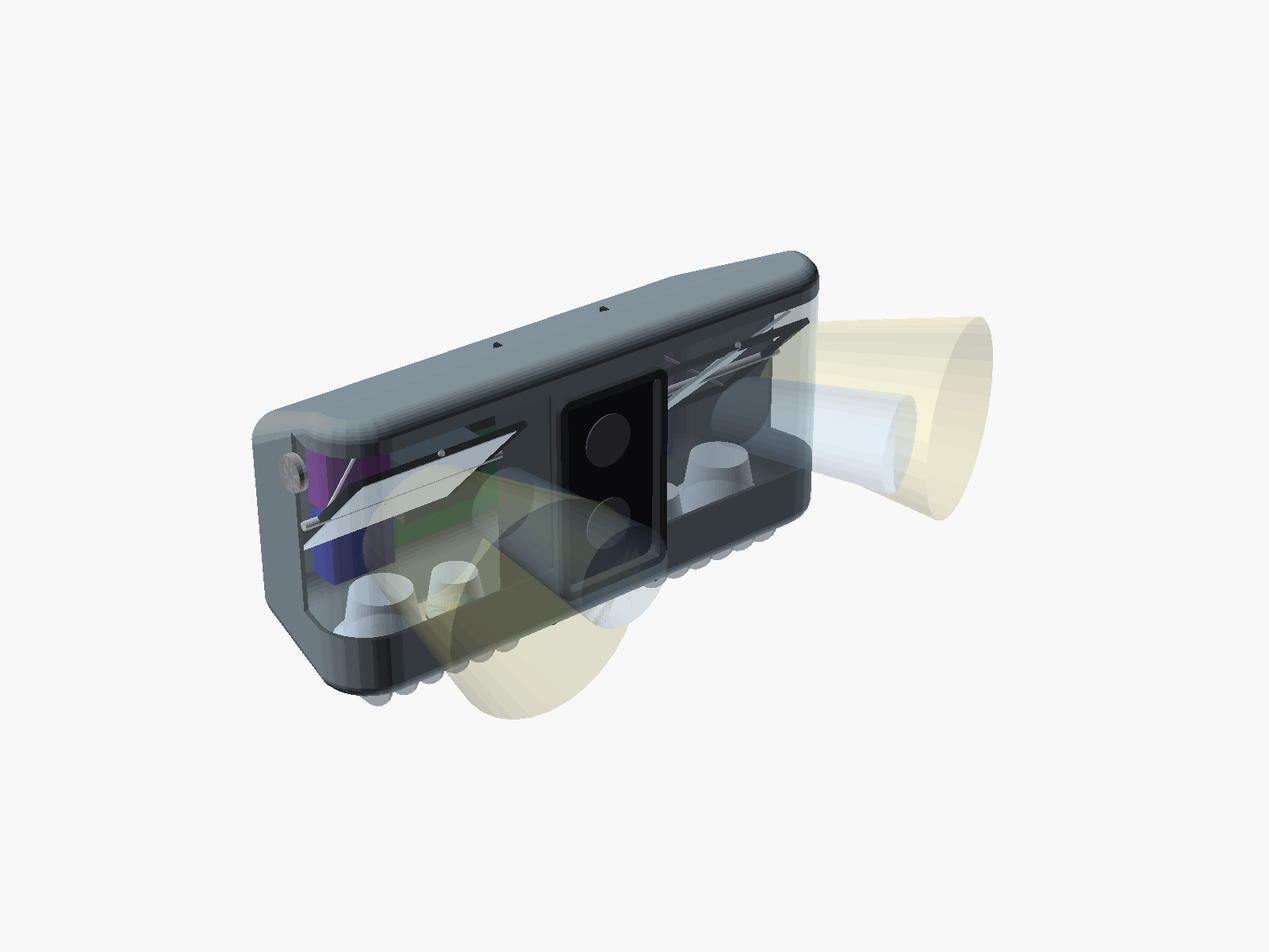
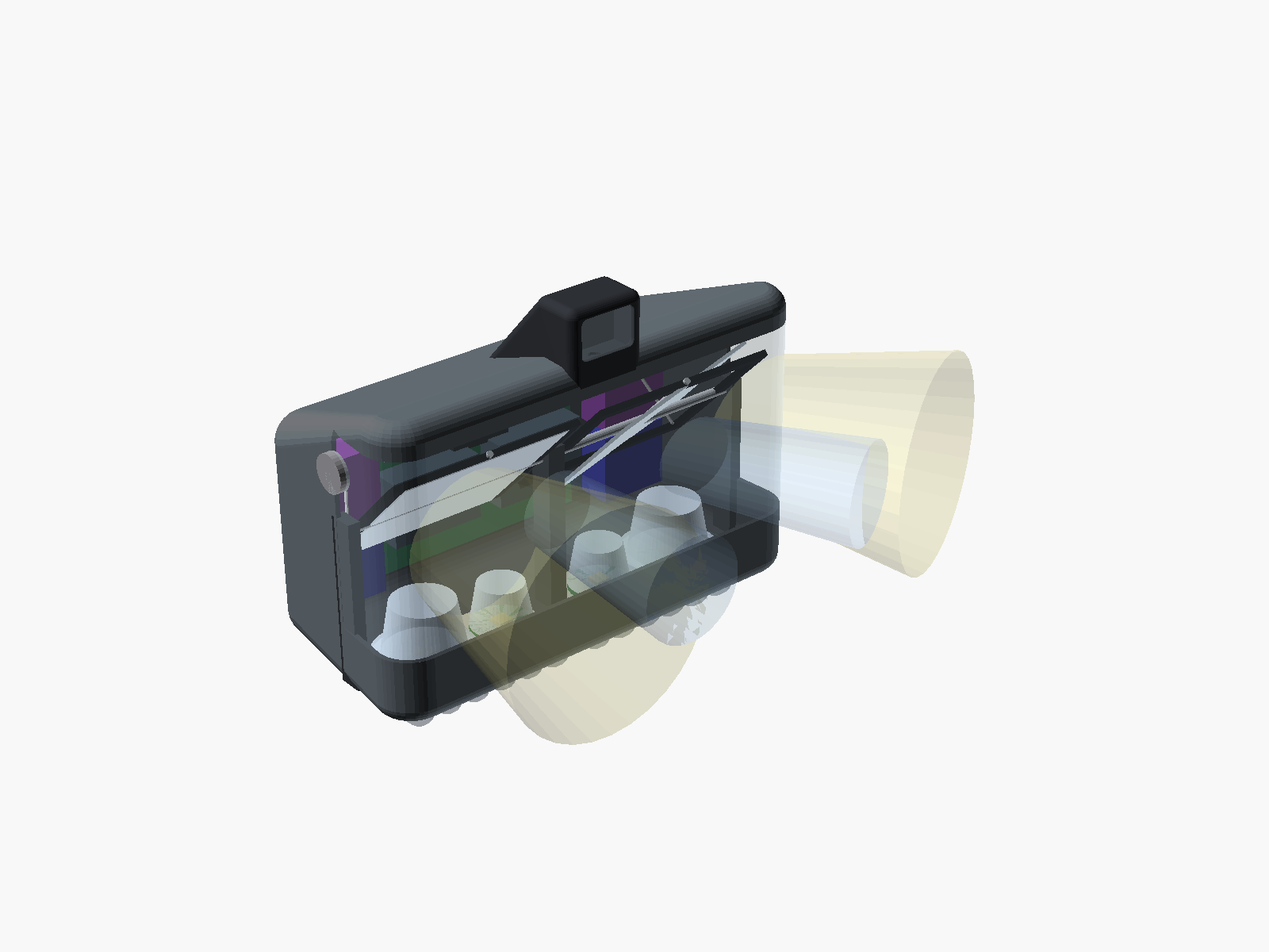
v4 render review: 151 mm body, TFS20-L lidar in a roof pod, exploded view
Owner review of the v4 renders (2026-11-21): narrow the body to about
150 mm, fins acceptable, sides stay fully clear, add an exploded view,
swap the TF02-Pro for the TFS20-L in a roof pod.

- Model: centre post carries both inner mirror shafts, bearings in the
  gimbal frames, inward yaw limited to 2.5 deg, servos moved outward,
  one-piece clear wrap, smaller wrap radius and taper, 1 mm more front
  clearance. Exploded view render added.
- C-PKG-18 now checks parts against the inner skin; this caught a mirror
  end touching the front wall at full outward swing (also in the 200 mm
  model), now fixed. C-PKG-14/16 retired, C-PKG-15 redefined.
- Result: 151 x 72 x 95 mm body, 341 g with lidar (C-MASS-01 pass).
- BOM: TFS20-L + window gasket, ~$401 with lidar; bench kit lists v4
  quantities and two BuckBlocks.
- Docs: design review section, sensor section for the TFS20-L, firmware
  spec note, new tests B-THM-03 and B-LID-02, site and README figures.

Changed region(s): [[0.1875, 0.2467, 0.7812, 0.8017]]

diff --git a/docs/index.html b/docs/index.html
@@ -185,7 +185,7 @@ footer p { margin: 0 0 8px; max-width: 80ch; }
     <div class="status">Concept design: nothing built or tested yet. Every figure is an estimate.</div>
   </div>
   <figure class="render" style="margin:0">
-    <img src="img/v4-three-quarter.png" alt="Packaging model of the head: a rounded light bar with a mirror module each side, the lidar in the middle and clear wraparound sides" width="1600" height="1200">
+    <img src="img/v4-three-quarter.png" alt="Packaging model of the head: a rounded light bar with two mirror modules side by side, a small lidar pod on the roof and one clear piece wrapping the front and sides" width="1600" height="1200">
     <figcaption>Packaging model, layout v4 · OpenSCAD</figcaption>
   </figure>
 </header>
@@ -287,15 +287,16 @@ footer p { margin: 0 0 8px; max-width: 80ch; }
 <section id="design">
   <div class="wrap">
     <div class="eyebrow">Design · layout v4</div>
-    <h2>A rounded light bar, 200 mm wide</h2>
-    <p class="intro">The packaging model checks that everything fits, sweeps and stays under the weight limit before any part is bought. Layout v4 was chosen on 2026-11-21 over a narrower single-mirror head (v3) with fixed cornering lights.</p>
+    <h2>A rounded light bar, about 150 mm wide</h2>
+    <p class="intro">The packaging model checks that everything fits, sweeps and stays under the weight limit before any part is bought. Layout v4 was chosen on 2026-11-21 over a single-mirror head (v3) with fixed cornering lights. After reviewing the renders the same day, a much smaller lidar moved to a pod on the roof, so the two modules sit side by side and the body narrowed from 200 to about 151 mm.</p>
     <div class="gallery">
       <figure><div class="shot"><img src="img/v4-turning.png" alt="Model in a left turn: the left beam swung outward, the right beam straight ahead" loading="lazy" width="1600" height="1200"></div><figcaption><b>Left turn.</b> The left beam swings 25° out through the clear side; the right one stays straight.</figcaption></figure>
-      <figure><div class="shot"><img src="img/v4-top.png" alt="Top view in a left turn: left beam swung out, right beam straight" loading="lazy" width="1600" height="1200"></div><figcaption><b>From above, left turn.</b> Two modules with the lidar bay between them and the servos in the back slot.</figcaption></figure>
+      <figure><div class="shot"><img src="img/v4-top.png" alt="Top view in a left turn: left beam swung out, right beam straight" loading="lazy" width="1600" height="1200"></div><figcaption><b>From above, left turn.</b> Two modules side by side, the lidar pod on the roof and the servos in the back slot.</figcaption></figure>
       <figure><div class="shot"><img src="img/v4-cutaway.png" alt="Cut-away side view showing LED, optic, mirror and heatsink" loading="lazy" width="1600" height="1200"></div><figcaption><b>Cut-away.</b> LED facing up, optic, 45° mirror, heatsink floor.</figcaption></figure>
       <figure><div class="shot"><img src="img/v4-under.png" alt="Underside with two finned heatsinks" loading="lazy" width="1600" height="1200"></div><figcaption><b>Underneath.</b> Two aluminium heatsinks, fins fore-aft in the airflow.</figcaption></figure>
       <figure><div class="shot"><img src="img/v4-on-wheel.png" alt="The head mounted on a generic wheel for scale" loading="lazy" width="1600" height="1200"></div><figcaption><b>On a wheel.</b> Generic 16-inch shell, for scale.</figcaption></figure>
-      <figure><div class="shot"><img src="img/v4-front.png" alt="Front view of the head" loading="lazy" width="1600" height="1200"></div><figcaption><b>Front.</b> Low beam outside, spot inside, behind one curved clear piece per side.</figcaption></figure>
+      <figure><div class="shot"><img src="img/v4-front.png" alt="Front view of the head" loading="lazy" width="1600" height="1200"></div><figcaption><b>Front.</b> Low beam outside, spot inside, behind one curved clear piece; the lidar looks out of its roof pod.</figcaption></figure>
+      <figure><div class="shot"><img src="img/v4-exploded.png" alt="Exploded view: shell lifted off, clear piece and lidar forward, servos and board back, optics and heatsinks below" loading="lazy" width="1600" height="1200"></div><figcaption><b>Exploded.</b> Shell, clear piece, lidar, mirrors, servos and board, optics, heatsinks.</figcaption></figure>
     </div>
   </div>
 </section>
@@ -330,7 +331,7 @@ footer p { margin: 0 0 8px; max-width: 80ch; }
             <tr><td>Pitch correction</td><td class="num">~0.05 s</td></tr>
             <tr><td>Hill follow</td><td class="num">&lt; 1 s</td></tr>
             <tr><td>Turn swing</td><td class="num">up to 25°</td></tr>
-            <tr><td>Size</td><td class="num">~200 × 70 × 111 mm</td></tr>
+            <tr><td>Size</td><td class="num">~151 × 72 × 112 mm</td></tr>
             <tr><td>Sealing target</td><td class="num">IP65</td></tr>
           </tbody>
         </table>
@@ -340,13 +341,13 @@ footer p { margin: 0 0 8px; max-width: 80ch; }
       <div class="panel budget">
         <h3>Limits, with the lidar fitted</h3>
         <div class="meter">
-          <div class="row"><span>Head weight</span><span>~399 / 400 g</span></div>
-          <div class="bar" role="img" aria-label="399 of 400 grams"><i style="width:99.75%"></i><b></b></div>
+          <div class="row"><span>Head weight</span><span>~341 / 400 g</span></div>
+          <div class="bar" role="img" aria-label="341 of 400 grams"><i style="width:85.25%"></i><b></b></div>
           <small>Printed parts measured from the model; bought parts from datasheets. Only 1 g of margin: the custom PCB should win some back.</small>
         </div>
         <div class="meter">
-          <div class="row"><span>Material cost per unit</span><span>~$440 / $450</span></div>
-          <div class="bar" role="img" aria-label="440 of 450 dollars"><i style="width:97.8%"></i><b></b></div>
+          <div class="row"><span>Material cost per unit</span><span>~$401 / $450</span></div>
+          <div class="bar" role="img" aria-label="401 of 450 dollars"><i style="width:89.1%"></i><b></b></div>
           <small>Excludes the power bank, tools and leftover packs. About $342 without the lidar.</small>
         </div>
       </div>
@@ -367,7 +368,7 @@ footer p { margin: 0 0 8px; max-width: 80ch; }
     <div class="parts">
       <div class="part"><div class="role">Brain</div><div class="name">Seeed XIAO ESP32-S3</div><p>Control loop, BLE remote, Wi-Fi calibration page.</p></div>
       <div class="part"><div class="role">Sensor</div><div class="name">LSM6DSO32 IMU</div><p>6-axis, ±32 g, so crash detection doesn't saturate.</p></div>
-      <div class="part"><div class="role">Look-ahead</div><div class="name">Benewake TF02-Pro lidar</div><p>Measures the road slope ahead. Optional: everything works without it.</p></div>
+      <div class="part"><div class="role">Look-ahead</div><div class="name">Benewake TFS20-L lidar</div><p>A 1.35 g sensor in a roof pod that measures the road slope ahead. Optional: everything works without it.</p></div>
       <div class="part"><div class="role">Light</div><div class="name">4 × Cree XP-L HI</div><p>Two behind FILIPPA cutoff optics, two behind Carclo spots.</p></div>
       <div class="part"><div class="role">Drivers</div><div class="name">2 × BuckBlock 2.1 A</div><p>Run at full current if the MCU dies: the light stays on.</p></div>
       <div class="part"><div class="role">Steering</div><div class="name">4 × 5 g servos, 2 mirrors</div><p>Front-surface glass on printed two-axis gimbals.</p></div>
@@ -433,7 +434,7 @@ footer p { margin: 0 0 8px; max-width: 80ch; }
 
 <footer>
   <div class="wrap">
-    <p><b style="color:var(--fg);font-weight:500">A concept design.</b> Nothing here has been built or tested yet, so it isn't ready to build; ideas and doubts are welcome as <a href="https://github.com/nijaba/euc-stabilized-headlight/issues">GitHub issues</a>. Ride with a backup light until it's proven, and check your country's lighting rules: aim the low beam so it doesn't dazzle other road users. The optional TF02-Pro is a Class 1 (eye-safe) laser device.</p>
+    <p><b style="color:var(--fg);font-weight:500">A concept design.</b> Nothing here has been built or tested yet, so it isn't ready to build; ideas and doubts are welcome as <a href="https://github.com/nijaba/euc-stabilized-headlight/issues">GitHub issues</a>. Ride with a backup light until it's proven, and check your country's lighting rules: aim the low beam so it doesn't dazzle other road users. The optional TFS20-L lidar is a Class 1 (eye-safe) laser device.</p>
     <p>Hardware and firmware under GPL-3.0. <a href="https://github.com/nijaba/euc-stabilized-headlight">github.com/nijaba/euc-stabilized-headlight</a></p>
   </div>
 </footer>

diff --git a/cad/weight.py b/cad/weight.py
@@ -69,8 +69,8 @@ def budget(g, shell_mm3, hood_mm3):
         "2x cornering driver (700 mA buck)": cornering * 2 * 2,
     }
     if g["lidar"]:
-        parts["TF02-Pro lidar"] = 50
-        parts["Lidar gasket + screws"] = 2
+        parts["Lidar (v3 TF02-Pro, v4 TFS20-L)"] = g.get("lidar_g", 50)
+        parts["Lidar window, gasket + screws"] = g.get("lidar_mount_g", 2)
     return parts
 
 

diff --git a/hardware/BOM.md b/hardware/BOM.md
@@ -1,10 +1,11 @@
 # EUC Stabilized Headlight – Bill of Materials (v4)
 
-Version: layout v4 (adopted 2026-11-21): XIAO ESP32-S3, 3D-printed ASA housing with two aluminium heatsinks and thermoformed polycarbonate wraparound sides, external USB-C PD power bank, two mirrors on 2-axis gimbals driven by four servos, optional road-slope lidar.  
+Version: layout v4 (adopted 2026-11-21): XIAO ESP32-S3, 3D-printed ASA housing with two aluminium heatsinks and one thermoformed polycarbonate piece wrapping the front and both sides, external USB-C PD power bank, two mirrors on 2-axis gimbals driven by four servos side by side, optional road-slope lidar (TFS20-L in a roof pod).  
 Prices: approximate USD street prices, Nov 2026. **Check the live pages before ordering.** Links marked *search* go to a marketplace search because those parts are commodity items with many equivalent sellers.
 
 ## Changes since the last design
 
+- **150 mm body and a smaller lidar (owner, 2026-11-21):** the Benewake TFS20-L (21 × 15 × 7.9 mm, 1.35 g, 3.3 V I²C) replaces the TF02-Pro and moves to a small pod on the roof, so the two mirror modules sit side by side and the body narrows to about 151 mm. One clear piece now wraps the whole front. About $39 less with the lidar.
 - **Layout v4 (2026-11-21):** two mirrors on 2-axis gimbals and four servos replace the single mirror and servo. The cornering lights, their drivers and optics, the toe-out wedges and the brow are gone. The flat window becomes two thermoformed polycarbonate wraparound pieces. Net about +$26 per unit.
 - **LED driver:** the Mean Well LDD-1500H is discontinued, so it's replaced by the **LEDdynamics BuckBlock A009-D-V-2100**. It's dimmable and rated 2.1 A. Firmware caps it at about 1.5 A in normal mode and allows 2.1 A in a time-limited boost mode.
 - **Dimming flicker:** BuckBlock PWM is specified at 200 Hz, which would flicker visibly on a moving wheel. Instead, the 2N3904 interface runs at about 20 kHz with a 10 µF cap on DIM, which turns it into smooth analog dimming. Verify this on the bench.
@@ -65,7 +66,7 @@ Prices: approximate USD street prices, Nov 2026. **Check the live pages before o
 | Item | Part / spec | Qty | Unit $ | Ext $ | Source | Notes |
 |---|---|---|---|---|---|---|
 | Filament | ASA 1 kg (Polymaker / Prusament) – ~150 g used | 1 | 25.00 | 25.00 | [search](https://www.amazon.com/s?k=ASA+filament+1kg) | Black interior parts can be same spool |
-| Clear sides | Polycarbonate sheet 1–1.5 mm, ~300×200 mm, thermoformed into 2 wraparound front-and-side pieces | 1 | 12.00 | 12.00 | [search](https://www.amazon.com/s?k=polycarbonate+sheet+1.5mm) | Dry it before forming (about 120 °C for a few hours) or it bubbles. Forms at ~170–190 °C |
+| Clear sides | Polycarbonate sheet 1–1.5 mm, ~300×200 mm, thermoformed into one piece across the front and round both sides (~200 mm developed length), plus the small lidar window | 1 | 12.00 | 12.00 | [search](https://www.amazon.com/s?k=polycarbonate+sheet+1.5mm) | Dry it before forming (about 120 °C for a few hours) or it bubbles. Forms at ~170–190 °C |
 | Forming buck | Plaster of Paris or casting resin, for the mould (ASA softens below the forming temperature) | 1 | 8.00 | 8.00 | [search](https://www.amazon.com/s?k=plaster+of+paris) | Or MDF or aluminium; or coat an ASA buck with high-temperature epoxy |
 | Anti-fog | Rain-X Anti-Fog (inside of window) | 1 | 6.00 | 6.00 | [search](https://www.amazon.com/s?k=Rain-X+anti+fog) |  |
 | O-ring | Silicone O-ring cord, 2 mm, 2 m | 1 | 8.00 | 8.00 | [search](https://www.amazon.com/s?k=silicone+o-ring+cord+2mm) | Glue the ends with CA glue |
@@ -115,9 +116,9 @@ Prices: approximate USD street prices, Nov 2026. **Check the live pages before o
 
 | Item | Part / spec | Qty | Unit $ | Ext $ | Source | Notes |
 |---|---|---|---|---|---|---|
-| Lidar | Benewake TF02-Pro, IP65, 13.5 m @10% reflectivity, UART/I²C, 5–12 V | 1 | 92.49 | 92.49 | [link](https://www.racedayquads.com/products/benewake-tf02-pro-ip65-lidar) | Also Lumenier / GetFPV (~$100). Runs on the shared I²C bus (one-time UART command to switch modes) |
-| Lidar gasket + screws | EPDM foam gasket strip 3 mm + M2.5 stainless screws | 1 | 6.00 | 6.00 | [search](https://www.amazon.com/s?k=EPDM+foam+gasket+tape+3mm) | Seals the lidar face in its own front cut-out |
-| **Subtotal** | | | | **98.49** | | |
+| Lidar | Benewake TFS20-L, 21 × 15 × 7.9 mm, 1.35 g, 0.2–9 m @10% reflectivity in 100 klux sun (12 m in the dark), I²C/UART, 3.3 V | 1 | 55.00 | 55.00 | [link](https://en.benewake.com/TFS20L/index.html) | Owner's choice, 2026-11-21 (replaces the TF02-Pro). Price estimated from an AU$85 listing; also sold by GetFPV, DFRobot (SEN0672), Mouser. Not IP-rated: it sits behind its own window in the sealed roof pod. 3.3 V only, on the shared I²C bus |
+| Lidar window gasket + screws | EPDM foam gasket strip 3 mm + M2 stainless screws (window cut from the clear-side sheet) | 1 | 4.00 | 4.00 | [search](https://www.amazon.com/s?k=EPDM+foam+gasket+tape+3mm) | Seals the pod window; a divider between the lenses stops the window reflecting the laser back |
+| **Subtotal** | | | | **59.00** | | |
 
 ### Cheaper remote alternative (replaces section G)
 
@@ -127,7 +128,7 @@ Prices: approximate USD street prices, Nov 2026. **Check the live pages before o
 
 ## Bench kit (order first, build-plan phase 2)
 
-For firmware and bench testing before the protoboard or any PCB. Most of it is the real parts from the sections above and goes into the final build. Quantities cover both v3 and v4 (four servos). It is a one-off purchase list, so it is not in `BOM.csv` or the per-unit cost summary.
+For firmware and bench testing before the protoboard or any PCB. Most of it is the real parts from the sections above and goes into the final build. Quantities are for v4 (four servos, two LED channels). It is a one-off purchase list, so it is not in `BOM.csv` or the per-unit cost summary.
 
 | Item | Part / spec | Qty | Unit $ | Ext $ | Source | Reused in the build? |
 |---|---|---|---|---|---|---|
@@ -138,25 +139,26 @@ For firmware and bench testing before the protoboard or any PCB. Most of it is t
 | Mirror test pieces | Front-surface mirror offcuts, MR63ZZ bearings, 3 mm rod, pushrod kit (section C) | 1 | 31.00 | 31.00 | see section C | Bearings, rod and kit yes |
 | Laser module | 5 V 650 nm dot laser module | 1 | 5.00 | 5.00 | [search](https://www.amazon.com/s?k=5V+650nm+laser+dot+module) | No (test tool) |
 | Breadboard + jumpers | Full-size breadboard and jumper wire kit | 1 | 10.00 | 10.00 | [search](https://www.amazon.com/s?k=breadboard+jumper+wire+kit) | No (test tool) |
-| Optics bench | 1 BuckBlock, 2 XP-L HI on stars, 1 FILIPPA-STVZO, 1 Carclo 10003 + holder, the heatsink (sections B, C) | 1 | 50.00 | 50.00 | see sections B, C | Yes |
+| Optics bench | 2 BuckBlocks (phase 3 tests both channels), 2 XP-L HI on stars, 1 FILIPPA-STVZO, 1 Carclo 10003 + holder, the heatsink (sections B, C) | 1 | 71.00 | 71.00 | see sections B, C | Yes |
+| Lidar | Benewake TFS20-L (section H), to test its range through a window early | 1 | 55.00 | 55.00 | [link](https://en.benewake.com/TFS20L/index.html) | Yes |
 | Power | PD trigger cable 15 V, Pololu 5 V regulator, passives (section B, F); RXEF300 as well as RXEF250 to compare | 1 | 45.00 | 45.00 | see sections B, F | Yes |
 | USB-C power meter | Inline USB-C voltage/current meter | 1 | 20.00 | 20.00 | [search](https://www.amazon.com/s?k=usb+c+power+meter) | No (test tool) |
 | Lux meter | Basic digital lux meter | 1 | 20.00 | 20.00 | [search](https://www.amazon.com/s?k=digital+lux+meter) | No (test tool) |
-| **Total** | | | | **263.43** | | about $200 of it goes into the build |
+| **Total** | | | | **339.43** | | about $260 of it goes into the build |
 
 ## 3D-printed parts (no purchase)
 
 | Part | Notes |
 |---|---|
 | Body | ASA, 5 perimeters, open top, O-ring groove, vent + button + gland bosses |
-| Clear-side clamps | ASA, clamp each wraparound piece with its gasket, and frame the lidar bay |
+| Clear-side clamps | ASA, clamp the wraparound piece with its gasket; centre post and two outer posts carry the pitch shafts |
 | Gimbals (×2) | ASA outer frame pitching on MR63 bearings, mirror cradle yawing inside it on pins; each balanced about both axes |
 | Servo brackets + lever arms (×2) | ASA, two servos per side stacked in the back slot, each linkage about 4:1 |
 | Optic plates (×2) | ASA, one per module, locate a Carclo holder and a FILIPPA optic on each heatsink. Slots key the FILIPPA ribs toward the front; spacers set the FILIPPA focus height |
 | Electronics tray | ASA, holds the protoboard, BuckBlocks, Pololu |
 | Mount boss | ASA, on the back of the body, holds the 1/4"-20 insert |
 | Remote case | ASA or TPU, 2 buttons + strap slots |
-| Lidar bay (if section H) | ASA, in the body between the two modules, lidar on its side, aimed ~3–5° below the beam axis; gasketed front opening |
+| Lidar pod (if section H) | ASA hump on the front of the roof (~26 mm wide, 46 mm long faired, 18 mm tall), TFS20-L aimed ~3–5° below the beam axis behind a gasketed window; printed as part of the body |
 
 ## Cost summary
 
@@ -164,11 +166,11 @@ For firmware and bench testing before the protoboard or any PCB. Most of it is t
 |---|---|
 | Core build, cash outlay (sections A–G, excluding the 2 optional items) | **528** |
 | Optional extras (XTC-3D coating, magnetic breakaway) | +35 |
-| Road-slope lidar (section H) | +98 |
+| Road-slope lidar (section H) | +59 |
 | Subtract if you already own a power bank, filament, resistor kit, wire, paste | −100 |
 | Packs and spools left over after one unit (inserts, screws, O-ring cord, bearings, mounts, sheet, plaster…) | ≈ 136 |
 | **Material actually used per unit, without lidar or power bank** | **≈ 342** |
-| **With the lidar (the $450 limit applies here)** | **≈ 440** |
+| **With the lidar (the $450 limit applies here)** | **≈ 401** |
 
 Tools not included: 3D printer, soldering iron with a heat-set insert tip, multimeter, glass cutter, drill and M3 tap.
 

diff --git a/docs/test-plan.md b/docs/test-plan.md
@@ -161,12 +161,12 @@ Each check's message in `cad/headlight.scad` or `cad/weight.py` starts with its 
 | C-PKG-11 | The sloping roof leaves the electronics board at least 45 mm tall | Board height ≥ 45 mm | Pass (v3), 2026-11-21 |
 | C-PKG-12 | The servo fits inside the rounded, tapered tail | Servo inside the tail's inner wall | Pass (v3), 2026-11-21 |
 | C-PKG-13 | The electronics board fits the flat part of the tail | Board width ≥ 55 mm | Pass (v3), 2026-11-21 |
-| C-PKG-14 | v4 only: the lidar on its side fits inside the body | Lidar top below the inner roof | Pass (v4 study), 2026-11-21 |
-| C-PKG-15 | v4 only: each module's beam clears the lidar bay at full inward yaw | Inner beam edge outside the bay | Pass (v4 study), 2026-11-21 |
-| C-PKG-16 | v4 only: the gimbal frames clear the lidar bay | No overlap | Pass (v4 study), 2026-11-21 |
+| C-PKG-14 | v4 only: the lidar on its side fits inside the body | Lidar top below the inner roof | Retired 2026-11-21: the lidar moved to a roof pod (C-PKG-18 covers it) |
+| C-PKG-15 | v4 only: each spot's light column, from LED to mirror, clears the centre post that holds the inner pitch shafts (until 2026-11-21: beam clears the lidar bay) | Inner edge of the column outside the post | Pass at 151 mm, 2026-11-21 |
+| C-PKG-16 | v4 only: the gimbal frames clear the lidar bay | No overlap | Retired 2026-11-21: no lidar bay (the frames clear the centre post by construction) |
 | C-PKG-17 | v4 with clear wrap: the clear side stops ahead of the servo slot | Wrap ends in front of the back slot | Pass (study), 2026-11-21 |
-| C-PKG-18 | v4: no internal part (optics, servos, electronics, lidar, mirrors at every corner of their pitch and yaw travel) pokes through the body's outer skin | Nothing left outside the skin (`cad/fit-v4.scad`) | Pass, 2026-11-21 |
-| C-MASS-01 | Head mass with the lidar, printed parts measured from the model's STL volumes, bought parts from datasheets | ≤ 400 g | See `cad/renders/checks.txt`; ~401 g in v3, 2026-11-21 |
+| C-PKG-18 | v4: no internal part (optics, servos, electronics, lidar in its roof pod, mirrors at every corner of their pitch and yaw travel) pokes into the wall: checked against the inner skin since 2026-11-21 (the lidar against the outer skin of its roof pod) | Nothing left outside (`cad/fit-v4.scad`) | Pass at 151 mm (inner skin), 2026-11-21 |
+| C-MASS-01 | Head mass with the lidar, printed parts measured from the model's STL volumes, bought parts from datasheets | ≤ 400 g | See `cad/renders/checks.txt`; ~341 g for v4 at 151 mm with the TFS20-L, 2026-11-21 (v3: ~401 g) |
 
 ## Bench tests (`B-`)
 
@@ -224,11 +224,13 @@ Each check's message in `cad/headlight.scad` or `cad/weight.py` starts with its 
 |---|---|---|---|
 | B-THM-01 | Heatsink rise in still air, at walking pace and at 25 km/h, with the airflow along the fins (fore-aft) | Within 25% of design §8 | – |
 | B-THM-02 | NTC reading against a thermocouple | Within 3 °C | – |
+| B-THM-03 | v4: lidar pod temperature, parked in sun at full power then riding, with a thermocouple by the TFS20-L | Stays below 60 °C (TFS20-L rating) | – |
 | B-SLP-01 | Sleep current and wake on motion | Wakes on a nudge; sleep current recorded | – |
 | B-REM-01 | DIY nRF52840 remote | Press-to-action latency ≤ 100 ms; battery life estimate recorded | – |
 | B-REM-02 | Cheap BLE shutter remote | First-press-after-sleep behaviour recorded | – |
 | B-CFG-01 | Calibration page on an iPhone and an Android phone | Joins the hotspot, shows live pitch, runs steps A–D and saves; every step also works with button and remote only | – |
-| B-LID-01 | TF02-Pro on dry and wet asphalt at a grazing angle of about 4° | Usable range and dropout rate recorded | – |
+| B-LID-01 | TFS20-L (TF02-Pro until 2026-11-21) on dry and wet asphalt at a grazing angle of about 4°, in its pod behind the window | Usable range and dropout rate recorded | – |
+| B-LID-02 | TFS20-L through its polycarbonate pod window, with the lens divider, against bare: a 10% target in daylight | Range at least 8 m through the window; no false close returns from the window | – |
 
 ## Enclosure and mount tests (`E-`)
 

diff --git a/README.md b/README.md
@@ -36,7 +36,7 @@ An EUC pitches nose-down when it accelerates and nose-up when it brakes, by up t
    │   ├─► BuckBlock #2 ─► 2× XP-L HI   (low beams, FILIPPA)      │
    │   └─► 5 V buck ─► 4 servos ─► 2 mirrors (pitch + yaw each)   │
    │                 └─► XIAO ESP32-S3 ◄─I²C─► LSM6DSO32 IMU      │
-   │                          ▲   └─I²C─► TF02-Pro lidar          │
+   │                          ▲   └─I²C─► TFS20-L lidar (3.3 V)   │
    │                          ├── BLE ── wrist remote (nRF52840)  │
    │                          └── Wi-Fi ── calibration page       │
    └──────────────────────────────────────────────────────────────┘
@@ -45,11 +45,12 @@ An EUC pitches nose-down when it accelerates and nose-up when it brakes, by up t
 Top view of the head (layout v4, front at the top):
 
 ```
-   ╭── clear side ──┬──────────────┬── clear side ──╮
-   │  FILIPPA  spot │  lidar bay   │ spot  FILIPPA  │
-   │   ╲ mirror ╱   │  (TF02-Pro)  │   ╲ mirror ╱   │
-   │  2 servos      │              │      2 servos  │
-   ╰── left module ─┴─ electronics ┴─ right module ─╯
+   ╭──────── one clear piece, front and both sides ────────╮
+   │  FILIPPA  spot    ┃ post ┃    spot  FILIPPA           │
+   │   ╲  mirror  ╱    ┃      ┃    ╲  mirror  ╱            │
+   │  2 servos ──── electronics board ──── 2 servos        │
+   ╰── left module ────────────────────── right module ────╯
+     lidar (TFS20-L) in a small pod on the roof, at the front
         aluminium heatsink floors, fins fore-aft
                 1/4"-20 mount on the back
 ```
@@ -63,9 +64,9 @@ Top view of the head (layout v4, front at the top):
 | Low beam (cutoff) at 10 m | ~62 lux | ~81 lux |
 | Input power | ~21 W | ~30 W |
 | Runtime on a 20 Ah bank (~50 Wh usable at 15 V) | ~2.4 h | ~1.7 h |
-| Head weight (limit: 400 g with lidar) | ~399 g with lidar (packaging model, measured shell; 1 g of margin, see design §10) | |
-| Head size | ~200 × 70 × 111 mm, a rounded light bar | |
-| Material cost per unit (limit: $450 with lidar) | ~$440 with the lidar, + power bank (~$342 without the lidar) | |
+| Head weight (limit: 400 g with lidar) | ~341 g with lidar (packaging model, measured shell; 59 g of margin, see design §10) | |
+| Head size | ~151 × 72 × 112 mm, a rounded light bar (~128 mm tall at the lidar pod) | |
+| Material cost per unit (limit: $450 with lidar) | ~$401 with the lidar, + power bank (~$342 without the lidar) | |
 
 The low-beam figures were estimated with v3's 4° toe-out; v4 aims both low beams straight ahead outside turns, so the centre should be a little brighter.
 
@@ -94,7 +95,7 @@ The phases and their progress are in [`docs/build-plan.md`](docs/build-plan.md).
 
 - This is an experimental project. Test it carefully, and ride with a backup light until it's proven.
 - Lighting rules differ between countries. Aim the low beam so it doesn't dazzle other road users. Self-levelling helps with this, but only if it's calibrated.
-- The optional TF02-Pro is a Class 1 (eye-safe) laser device.
+- The optional TFS20-L lidar is a Class 1 (eye-safe) laser device.
 
 ## License
 

diff --git a/docs/build-plan.md b/docs/build-plan.md
@@ -11,7 +11,7 @@ Phases in order. Work on the current phase only, and tick each item when it pass
 - [x] `CLAUDE.md`, build plan, test plan, changelog
 - [x] `CONTRIBUTING.md` and `SECURITY.md`
 - [x] Branch protection on `main` (signed commits, PR required)
-- [x] Material cost within the limit: ~$388 with the lidar (~$423 after the FILIPPA low beam, cornering lights and lean package), under the $450 limit set on 2026-11-20; ~$440 for layout v4 (2026-11-21)
+- [x] Material cost within the limit: ~$388 with the lidar (~$423 after the FILIPPA low beam, cornering lights and lean package), under the $450 limit set on 2026-11-20; ~$440 for layout v4, ~$401 with the TFS20-L lidar (2026-11-21)
 
 ## Phase 1: Packaging study
 
@@ -26,7 +26,7 @@ Goal: a parametric model and renders of the whole head prove it fits, sweeps and
 - [x] Layout v3: aerodynamic tapered shape and lean package; printed parts measured from the model
 - [x] Layout v4 study: two 2-axis mirrors, lidar in the body, no cornering lights or brow (~410 g)
 - [x] Owner decision: v4 adopted, with one clear wraparound piece per side (2026-11-21)
-- [ ] Owner review of the renders; update the design doc with what the model shows
+- [x] Owner review of the renders (2026-11-21): narrow the body (target ~150 mm), fins fine, sides stay clear, add an exploded view. Done with the TFS20-L lidar in a roof pod: ~151 mm body, design §5 updated
 
 ## Phase 2: Firmware core on the bench
 
@@ -97,7 +97,7 @@ Goal: the mirror size and window height are proven before CAD fixes them.
 ## Phase 8: Optional road-slope lidar
 
 - [ ] Lidar rules in firmware (U-LID)
-- [ ] Range and dropouts on real asphalt (B-LID-01)
+- [ ] Range through the pod window, then dropouts on real asphalt (B-LID-02, B-LID-01); pod temperature (B-THM-03)
 - [ ] Ride test at crests, dips and obstacles (R-LID-01)
 
 ## Phase 9: Custom PCB

diff --git a/cad/README.md b/cad/README.md
@@ -30,7 +30,7 @@ To explore, open `headlight.scad` in OpenSCAD and change `view` (`assembly`, `cu
 
 ## Layout v4 (adopted 2026-11-21)
 
-`headlight-v4.scad` models the adopted layout: two independent 2-axis mirror modules, the lidar on its side between them, and one curved clear piece per side across the front and round the corner (`wrap_sides = true`, the default; the flat front was dropped on 2026-11-21). No cornering lights or brow. `render.sh` renders it as `renders/v4-*.png` and writes its mass to `renders/mass-v4.txt`; its C-PKG checks and mass set the exit status, and v3's mass is reported only. Extra variables: `yaw` (outward-positive), `yaw_l` and `yaw_r` to swing one side only (the turn renders swing the left one), `yaw_max`, `yaw_out_max`, `r_wrap`, `wrap_side_min`.
+`headlight-v4.scad` models the adopted layout: two independent 2-axis mirror modules side by side around a centre post, a TFS20-L lidar in a small pod on the roof, and one curved clear piece across the whole front and round both corners (`wrap_sides = true`, the default; the flat front was dropped on 2026-11-21, the lidar bay on 2026-11-21 for a ~151 mm body). No cornering lights or brow. `render.sh` renders it as `renders/v4-*.png`, including an exploded view and writes its mass to `renders/mass-v4.txt`; its C-PKG checks and mass set the exit status, and v3's mass is reported only. Extra variables: `yaw` (outward-positive), `yaw_l` and `yaw_r` to swing one side only (the turn renders swing the left one), `yaw_in_max` (the inward aim trim), `yaw_out_max`, `r_wrap`, `wrap_side_min`, `post_w`, `pivot_boss`, `lidar` (envelope). `fit-v4.scad` checks against `skin_outer()`, the body plus the roof pod.
 
 ## Results (2026-11-21)
 

diff --git a/CHANGELOG.md b/CHANGELOG.md
@@ -5,6 +5,7 @@ All notable changes to this project are listed here. The format follows [Keep a 
 ## [Unreleased]
 
 ### Added
+- Owner's render review (2026-11-21): v4 body narrowed from 200 to ~151 mm (target 150). The Benewake TFS20-L lidar (1.35 g, 3.3 V) replaces the TF02-Pro in a small roof pod, the modules sit side by side around a centre post, one clear piece wraps the whole front, inward yaw is cut to a 2.5° aim trim, and an exploded render is added. Head ~341 g (was ~399 g), material cost ~$401 with the lidar (was ~$440). C-PKG-18 now checks against the inner skin, which found and fixed a mirror end touching the front wall; body taper 4 mm, clear-corner radius 12 mm, front clearance 5 mm. BOM, bench kit (two BuckBlocks, a TFS20-L), design §5/§9, firmware-spec §8 and tests C-PKG-14..16/18, B-LID-02, B-THM-03 updated. Mirror-damping options recorded as an open question.
 - Proposal: high beam widened at low speed by swinging the two spots apart (up to 5° each, narrowing by 40 km/h), firmware-spec §12; speed estimated from the IMU (owner's decision), with resets when still and corrections in turns. Ride demo shows it.
 - Site and README say the project is a concept design and invite ideas as GitHub issues rather than builds.
 - GitHub Pages serves `docs/`, so the README's demo link opens the live page (`docs/.nojekyll` serves the files as they are).

diff --git a/CLAUDE.md b/CLAUDE.md
@@ -12,7 +12,7 @@ The owner decided these (2026-11-20). Ask before trading one away.
 
 - **Mirror steering.** The LEDs and heatsinks never move. Only the mirrors tilt to steer the beams.
 - **External power only.** The head has no battery. USB-C PD is negotiated at the power bank, in its pouch, and only plain DC reaches the head.
-- **Material cost ≤ $450 per unit, with the optional lidar fitted** (raised from $350 on 2026-11-20). This excludes the power bank, tools, and packs left over after one unit. The current estimate is about $440 for layout v4.
+- **Material cost ≤ $450 per unit, with the optional lidar fitted** (raised from $350 on 2026-11-20). This excludes the power bank, tools, and packs left over after one unit. The current estimate is about $401 for layout v4 with the TFS20-L lidar (2026-11-21).
 - **Head weight ≤ 400 g, with the optional lidar fitted** (raised from 350 g on 2026-11-21).
 - **The lidar stays optional.** The firmware and housing must work fully without it.
 - **No personal data in the repository:** no real names, hostnames, accounts or locations in code, docs, tests or commit messages. Personal build or ride notes go in `*.local.md`, which git ignores. The one approved exception is the repository's GitHub handle, in repository links and `CODEOWNERS`.

diff --git a/docs/firmware-spec.md b/docs/firmware-spec.md
@@ -140,9 +140,9 @@ Inputs:
 
 If the remote disconnects, the light keeps its current mode. The button on the head mirrors the remote's actions.
 
-## 8. Lidar road-slope fusion (optional TF02-Pro)
+## 8. Lidar road-slope fusion (optional TFS20-L)
 
-- **Input:** range `d` and signal strength at 100 Hz, over I²C.
+- **Input:** range `d` and signal strength at 100 Hz, over I²C (TFS20-L at its default address 0x10; TF02-Pro until 2026-11-21). In sunlight the TFS20-L reaches only about 9 m on dark asphalt, so "no return" will be more frequent than with the TF02-Pro. The crest rule below already answers it in the safe direction (a small downward bias, then the IMU estimate); B-LID-01 will show how often it happens.
 - **Grade:** `φ = atan2(h − d·sin β, d·cos β)`, where `β` is the ray's true depression angle from the IMU.
 - **Filtering:** median over about 100 ms, then rate-limited.
 
